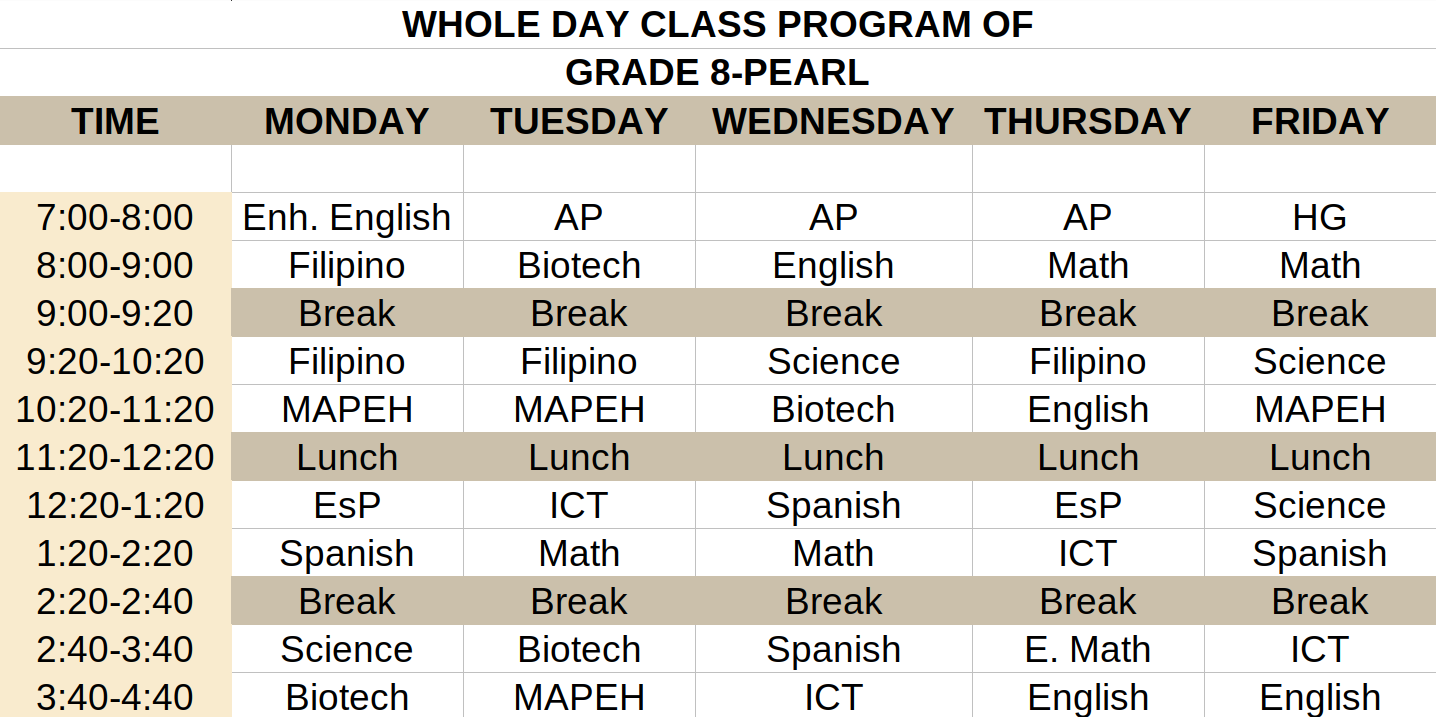
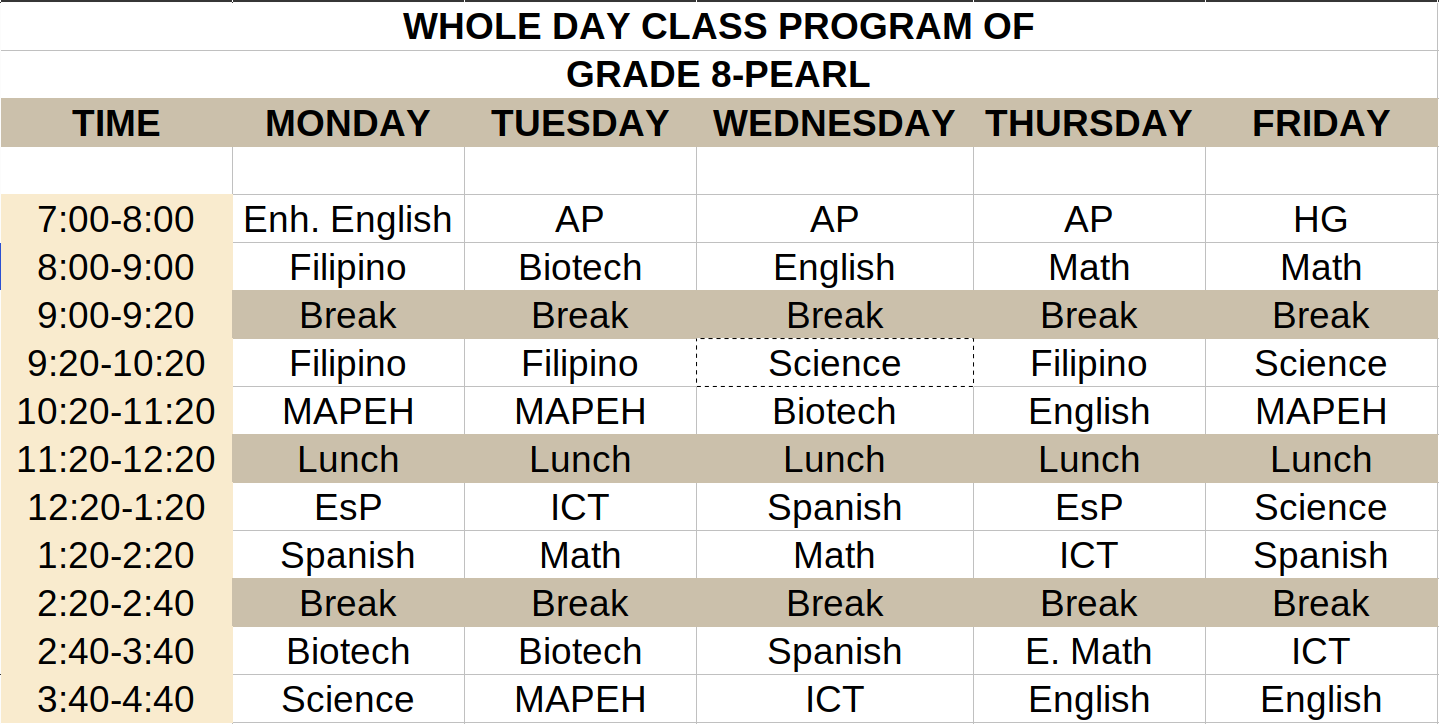
update to latest and other bugfixing

diff --git a/tht.html b/tht.html
@@ -30,12 +30,11 @@
       Written by: Vicente Amugauan
     </i>
     and others |
-    March 16, 2023 | Anouncements
+    March 20, 2023 | Anouncements
   </div><br>
   <div id="thtext"><i>Current Time is: </i></div>
   <div id="Title-THT-time">not working :(</div>
-  <a href="#sch"><div id="Title-THT2">SCHEDULE CHANGES</div></a>
-  <img src="img/Schedule-RDT.png" alt="Schedule.png" style="
+  <img src="img/Schedule.png" alt="Schedule.png" style="
   width:700px;
   height: 400px;
   vertical-align:middle;">
@@ -45,18 +44,24 @@
     <p><b>Quiz / Activity:</p>
   </div></b>
   <ul class="list-style">
-    <li>ICT</li>
-    - Long Quiz next week about JavaScript and Comments<br><br>
-    <li>Math</li>
-    - Quiz Next Week Tuesday about Solving Corresponding Parts of Congruent Triangles<br><br>
-    <li>EsP</li>
-    - WW4 next week about sa Payo at ang pagsunod / di-pagsunod sa Payo.<br><br>
-    <li>Biotech</li>
-    - Quiz TBA about Genetic Manipulation and GMOs.<br>
-    - Group Recitation next week about GE tools, Gene. Manipulation and GMOs. Bring white board and marker.<br><br>
+    <li>AP</li>
+    - Quiz on Wednesday about Rebolusyong Amerikano<br><br>
     <li>Science</li>
-    - Bring your PPE!<br>
-    - Activity next week about what is matter made of (maybe cancelled) (more on Science GC)
+    - Quiz on Wednesday? about Atoms<br><br>
+    <li>Español</li>
+    - Quiz next next meeting (Wednesday 2nd Period?) about Las tiendas y 3 comidas<br><br>
+    <li>ICT</li>
+    - Long Quiz tommorow about JavaScript and Comments.<br><br>
+    <li>Math</li>
+    - Quiz tommorow about Solving Corresponding Parts of Congruent Triangles.<br><br>
+    <li>EsP</li>
+    - WW4 this week about sa Payo at ang pagsunod / di-pagsunod sa Payo after discussion.<br>
+    - More in GCR.<br><br>
+    <li>Biotech</li>
+    - Quiz Tommorow about Genetic Manipulation and GMOs.<br><br>
+    <li>Science</li>
+    - Activity by pair tommorow.<br>
+    - Print the worksheet sent.
   </ul>
   <div class="Title-THT3">
     <p><b>Performance Tasks:</p>
@@ -64,32 +69,28 @@
   <ul class="list-style">
     <li>Español Presentation</li>
     - About building a dialogue between the customer and the shop assistant while the customer is shopping for his mother's birthday. More in GCR<br>
-    - Next Week Wednesday<br><br>
+    - On Wednesday<br><br>
     <li>MAPEH</li>
-    - Next Week, compose your own jingle song about UNITY with at least two stanzas and a maximum of one minute<br><br>
+    - Friday, about Zum Gali Gali (Jewish folk song)<br><br>
     <li>ICT</li>
     - About JavaScript<br>
-    - Tuesday or Wednesday (next week)<br><br>
+    - Tuesday or Wednesday (this week)<br><br>
     <li>AP</li>
-    - 3rd, Next Week Tuesday<br>
-    - Make a new invention (needs name and drawing), More on GCR<br><br>
+    - Due this week<br>
+    - Make a new invention (needs name and drawing), More in GCR<br><br>
     <div class="Title-THT3">
       <p><b>Reminders:</p>
     </div></b>
-    <li id="RDT">Regional Diagnostic Test this week (changed schedule too)</li><br>
+    <li>English Memorization for Language Week</li><br>
     <li>No Te Rindas</li>
-    - Spanish Day (Probably last week of April) (School Event?)<br>
+    - Surprise Long Quiz<br>
+    - Language Week (last week of April) (School Event)<br>
     - Try to memorize and practice saying this spanish poem<br><br>
     <li>Memorize Periodic Table for Science</li><br>
-    <li id="sch">Biotech and Science will switch schedule next week, with english and mapeh schedule change as well and e. math and math had switched too.</li><br>
-    <li>Ipa-pirma sa magulang ang ICT exam</li><br>
     <li>
       For this quarter in Science, we will need to have PPE for the upcoming activities. These equipments are Lab gown,
       Gloves (rubber), and Eyeglass. BRING IT EVERY BIOTECH AND SCIENCE ACTIVITY/PT!!<br><br>
     </li>
-    <li>We will create a summary sheet in EsP, "kahit i-sulat nalang
-      sa papel"- Ma'am Arcega</li>
-    <br>
     <li> Every week, on the last meeting in MAPEH, we will have
       a quiz about the topics we had that week.</li>
     <br>

diff --git a/Announcements.html b/Announcements.html
@@ -99,39 +99,52 @@ float: right;" width="600" height="400" frameborder="3" scrolling="no"></iframe>
 <div style="background-color:#FFFAF1;padding:30px; border-style: solid; text-align: center;" ID="WW">
 <h1> Written Works: </h1>
 <details>
-  <summary>ICT</summary>
-  <p>Long quiz</p>
-  <p>Next week</p>
-  <p>About JavaScript and Comment</p>
-</details><br>
-<details>
-  <summary>Math</summary>
-  <p>Quiz in Tuesday</p>
-</details><br>
-<details>
-  <summary>EsP</summary>
-  <p>WW#4, After discussion (next week), Check GCR</p>
-</details><br>
-<details>
-  <summary>Biotech</summary>
-  <p>Quiz TBA</p>
-  <p>Group Recitation next week</p>
+  <summary>AP</summary>
+  <p>Quiz on Wednesday</p>
 </details><br>
 <details>
   <summary>Science</summary>
-  <p>Ndi na ata gagawin</p>
-  <p>Activity, TBA (on the spot), bring your PPE and Activity using the recent ones in the GC</p>
+  <p>Quiz next meeting.</p>
+</details><br>
+<details>
+  <summary>Spanish</summary>
+  <p>Quiz next next meeting.</p>
+</details><br>
+<details>
+  <summary>ICT</summary>
+  <p>Long quiz.</p>
+  <p>Tommorow.</p>
+  <p>About JavaScript and Comment.</p>
+</details><br>
+<details>
+  <summary>Math</summary>
+  <p>Quiz tommorow.</p>
+</details><br>
+<details>
+  <summary>EsP</summary>
+  <p>WW#4, After discussion (this week), Check GCR.</p>
+</details><br>
+<details>
+  <summary>Biotech</summary>
+  <p>Quiz tommorow.</p>
+  <p>Gene manipulation, genetic engineering, and gmos.</p>
+</details><br>
+<details>
+  <summary>Science</summary>
+  <p>Activity Tomorrow, By pair.</p>
+  <p>Print the worksheet.</p>
 </details>
 </div><br><br>
 <div style="background-color:#FFFAF1;padding:30px; border-style: solid; text-align: center;" id="PT">
   <h1> Performance Tasks: </h1>
   <details>
     <summary>Spanish</summary>
-    <p>Presentation Next week (Wedn.)</p>
+    <p>Presentation this week (Wedn.)</p>
   </details><br>
   <details>
     <summary>MAPEH</summary>
-    <p>Next week</p>
+    <p>Zum Gali Gali</p>
+    <p>Friday</p>
   </details><br>
   <details>
     <summary>ICT</summary>
@@ -140,24 +153,22 @@ float: right;" width="600" height="400" frameborder="3" scrolling="no"></iframe>
   </details><br>
   <details>
     <summary>AP</summary>
-    <p>Next week tuesday</p>
+    <p>Due this week</p>
     <p>GCR</p>
   </details>
 </div><br><br>
 <div style="background-color:#FFFAF1;padding:30px; border-style: solid; text-align: center;" id="Reminders">
 <h1> Reminders: </h1><ul>
-<li>MEMORIZE No Te Rindas</li><br>
+<li>We will memorize something in English for the upcoming language event</li><br>
+<li>We will have a long quiz about the No te rindas (it iz a bulaga long quiz)</li><br>
+<li>MEMORIZE No Te Rindas (last week of April)</li><br>
 <li>MEMORIZE the periodic element of table</li><br>
-<li>Biotech will switch schedule with Science next week</li><br>
  <li> For this quarter in Science, we will need to have PPE for the upcoming activities. These equipments are Lab gown, Gloves (rubber), and Eyeglass. We will need it on
-   Friday!</li>
-<br>
- <li> Every week, on the last meeting in MAPEH, we will have a quiz about the topics we had tackled that week. </li>
-<br>
- <li> Laging MAGSUOT ng I.D </li>
-<br>
-<li>Accomplish your missing activities!</li>
-<br><li>P.S. that's all the things I remember...</li><br><li>Kung may kulang mali, o may idadagdag kayo sa announcements, message in gc!</li>
+   Friday!</li><br>
+ <li> Every week, on the last meeting in MAPEH, we will have a quiz about the topics we had tackled that week. </li><br>
+ <li> Laging MAGSUOT ng I.D </li><br>
+<li>Accomplish your missing activities!</li><br>
+<li>P.S. that's all the things I remember...</li><br><li>Kung may kulang mali, o may idadagdag kayo sa announcements, message in gc!</li>
 </ul></div>
 <script>
 window.onscroll = function() {myFunction()};

diff --git a/intram2023.html b/intram2023.html
@@ -22,7 +22,7 @@
   style=
   "width:100px;
   height: 100px;
-  vertical-align:middle;">/<!--Original Event was on Jan 30 - Feb 2.-->
+  vertical-align:middle;"><!--Original Event was on Jan 30 - Feb 2.-->
     Produced and Written by: 
    JoshMayBalloon (Joshua Calara) |
    March 17, 2023 | Intramurals 2023
